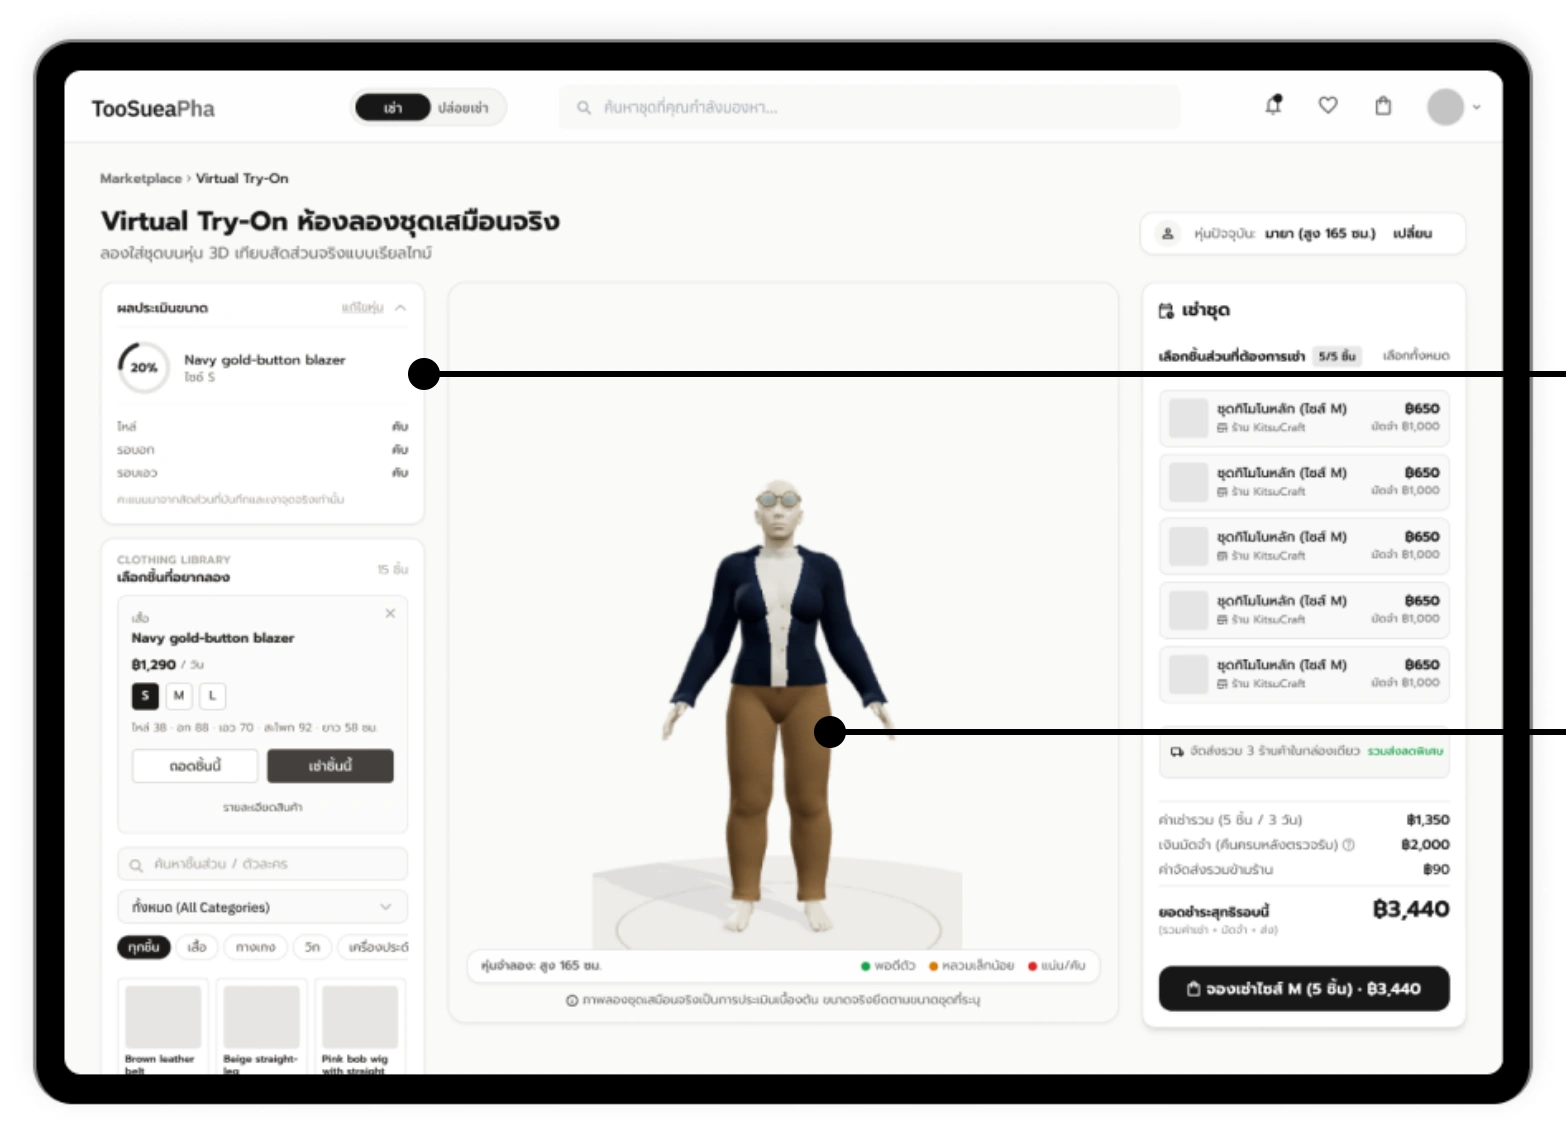
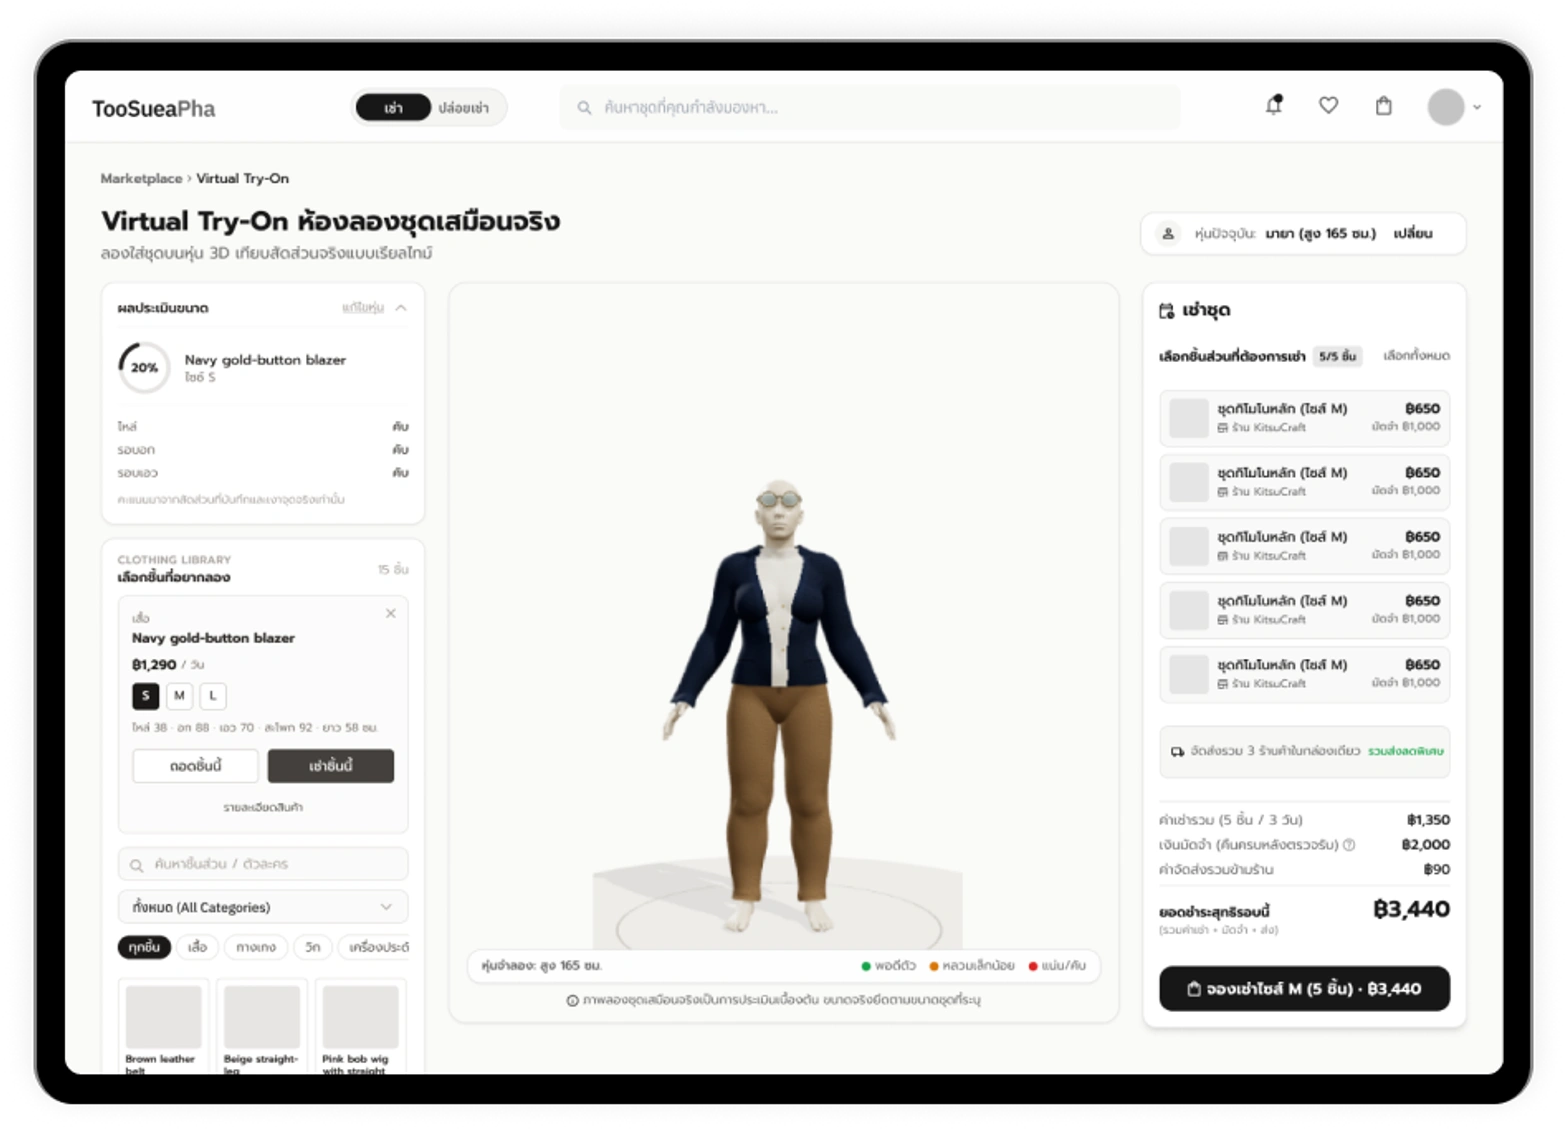
fix: refine artwork fidelity and verify portfolio release

diff --git a/src/styles/projects.css b/src/styles/projects.css
@@ -1,6 +1,6 @@
 .project-title { font-size: 48px; line-height: 1.4; font-weight: 750; letter-spacing: -2.1px; text-align: center; text-shadow: 1px 1px 0 #1b1e1c; }
 .toosuepha .overall { padding-top: 94px; padding-bottom: 130px; }
-.toosuepha-hero { display: grid; grid-template-columns: 42% 58%; align-items: center; margin-top: 84px; padding-right: 50px; }
+.toosuepha-hero { display: grid; grid-template-columns: 43.05% 56.95%; align-items: center; margin-top: 84px; padding-right: 47px; }
 .toosuepha-hero > img { width: 100%; }
 .project-brand { text-align: center; padding-bottom: 10px; }
 .project-brand img { width: 105px; margin-inline: auto; }
@@ -56,13 +56,13 @@
 .ux-title { margin-top: 76px; text-align: center; font-size: 24px; letter-spacing: -1px; }
 .ux-feature { display: grid; grid-template-columns: 66.35% 1fr; gap: 3%; margin-top: 20px; }
 .ux-feature > img { width: 100%; }
-.ux-annotations { padding-top: 100px; }
+.ux-annotations { padding-top: 174px; }
 .annotation { position: relative; }
 .annotation h4 { margin: 0 0 8px; font-size: 24px; letter-spacing: 1px; font-weight: 500; color: #000; }
 .annotation p { font-size: 16px; line-height: 1.5; color: #000; }
 .annotation::before { content: ''; position: absolute; right: calc(100% + 10px); top: 26px; width: 165%; border-top: 3px solid #000; }
 .annotation::after { content: ''; position: absolute; right: calc(265% + 10px); top: 20px; width: 16px; height: 16px; border-radius: 50%; background: #000; }
-.annotation.try-on { margin-top: 100px; }
+.annotation.try-on { margin-top: 98px; }
 .annotation.try-on::before { width: 110%; }
 .annotation.try-on::after { right: calc(210% + 10px); }
 .product-flows { display: grid; grid-template-columns: 1fr 1fr; gap: 106px; margin-top: 7px; }

diff --git a/src/styles/global.css b/src/styles/global.css
@@ -1,5 +1,5 @@
 :root {
-  font-family: 'Inter Variable', Inter, sans-serif;
+  font-family: 'Inter Variable', Inter, Tahoma, sans-serif;
   color: #1b1e1c;
   background: #fff;
   font-synthesis: none;

diff --git a/README.md b/README.md
@@ -1,0 +1,49 @@
+# Pitchayapa portfolio
+
+Responsive static portfolio built with Astro and Inter, using the supplied `Closet (2).zip` SVG exports as the visual source.
+
+## Development
+
+Requires Node.js 22.12+ (validated with Node.js 24).
+
+```sh
+npm ci
+npm run dev
+```
+
+## Checks and production build
+
+```sh
+npx playwright install chromium
+npm run check
+npm test
+npm run build
+npm run preview
+```
+
+The browser tests build the production site, start a temporary preview server, and check routing, the provided destinations, loaded artwork, horizontal overflow, sticky anchors, active sections, and direct hash navigation at desktop, tablet, and mobile widths.
+
+To test a deployed build: `TEST_BASE_URL=https://your-deployment.vercel.app npm test` (PowerShell: `$env:TEST_BASE_URL='https://your-deployment.vercel.app'; npm test`).
+
+## Structure
+
+- `src/pages/`: Home, TooSuePha, and Wua Lai.
+- `src/components/`: shared header, artwork, and section navigation.
+- `src/scripts/section-navigation.ts`: scroll and anchor state.
+- `src/styles/`: shared layout and project styles, including responsive breakpoints.
+- `src/data/links.ts`: the three destinations supplied by the owner.
+- `public/images/`: artwork extracted from the supplied SVGs; provenance records source coordinates.
+- `tests/`: browser behavior tests.
+
+Body copy is HTML. The website never embeds a full-page design screenshot. Artwork files are already committed; the original exports are not needed to build or deploy. To regenerate artwork, place the supplied `6.svg`, `7.svg`, and `9.svg` in `.design-reference/`, then run `node scripts/extract-artwork.mjs`.
+
+The Wua Lai export contains only its overview. Per the owner's instruction, its remaining navigation links point to empty section anchors in the original blank area. Add content directly to those sections when supplied.
+
+## Deployment
+
+Vercel project: `pitchayapa`. `vercel.json` configures Astro's static output in `dist/`. No application secrets, database, server runtime, or environment variables are required.
+
+```sh
+npx vercel link --project pitchayapa
+npx vercel deploy --prod
+```

diff --git a/docs/verification.md b/docs/verification.md
@@ -1,0 +1,26 @@
+# Verification — 2026-10-04
+
+- `npm run check`: no errors, warnings, or hints.
+- `npm test`: 17 tests passed against the generated static production build.
+- `npm run build`: all three routes generated successfully.
+- Browser matrix: 390 × 900, 768 × 900, 1280 × 900.
+- Independent review also checked all routes at 320 × 568, keyboard skip navigation, and smooth-scroll anchors at 390 × 844.
+- All artwork loaded; no document overflow or uncaught page errors in the tested layouts.
+- Every project-section link, including Wua Lai's intentionally blank destinations, updates the current section.
+- Direct hash navigation and manual scroll tracking checked, including the short final section.
+- Home-to-project navigation, return-home link, Resume navigation, and exact external URLs checked.
+- Both project websites and the Google Drive resume folder returned HTTP 200.
+- Visual comparisons used the three supplied SVG exports. A duplicated image callout was found and corrected by extracting the original embedded bitmap separately from the HTML callout lines.
+- Final read-only review found no remaining actionable issues.
+
+## Source limitations
+
+Only desktop exports were supplied. Smaller layouts reflow the same content and artwork. Wua Lai's four empty sections and their links remain per the user's explicit clarification.
+
+## Dependency note
+
+The installed Astro dependency tree reports the unpatched `http-cache-semantics` advisory GHSA-ch52-4w7c-c8xp. This portfolio emits only static files, has no server runtime or user sessions, and uses only local images. It does not execute the affected remote response cache in production. No forced downgrade was applied.
+
+## Deployment
+
+Vercel project `pitchayapa`, linked to `Mindiee/Pitchayapa`. Production verification is recorded after deployment below.

diff --git a/docs/implementation-plan.md b/docs/implementation-plan.md
@@ -14,8 +14,8 @@ Astro builds three static routes, with shared Layout, Header, SectionNav, and pr
 
 ## Milestones
 
-- [ ] Extract supplied artwork, create shared layout, and build Home. Test its two project routes and resume link, then commit and push.
-- [ ] Build both case studies, responsive layouts, sticky section anchors and scroll tracking. Test direct routes, section navigation, external links, and image loading, then commit and push.
+- [x] Extract supplied artwork, create shared layout, and build Home. Test its two project routes and resume link, then commit and push.
+- [x] Build both case studies, responsive layouts, sticky section anchors and scroll tracking. Test direct routes, section navigation, external links, and image loading, then commit and push.
 - [ ] Check production build and types, desktop/tablet/mobile layouts, reduced-motion and keyboard navigation. Review all source, fix findings, commit and push. Deploy Vercel project pitchayapa and verify production routes.
 
 ## Verification
